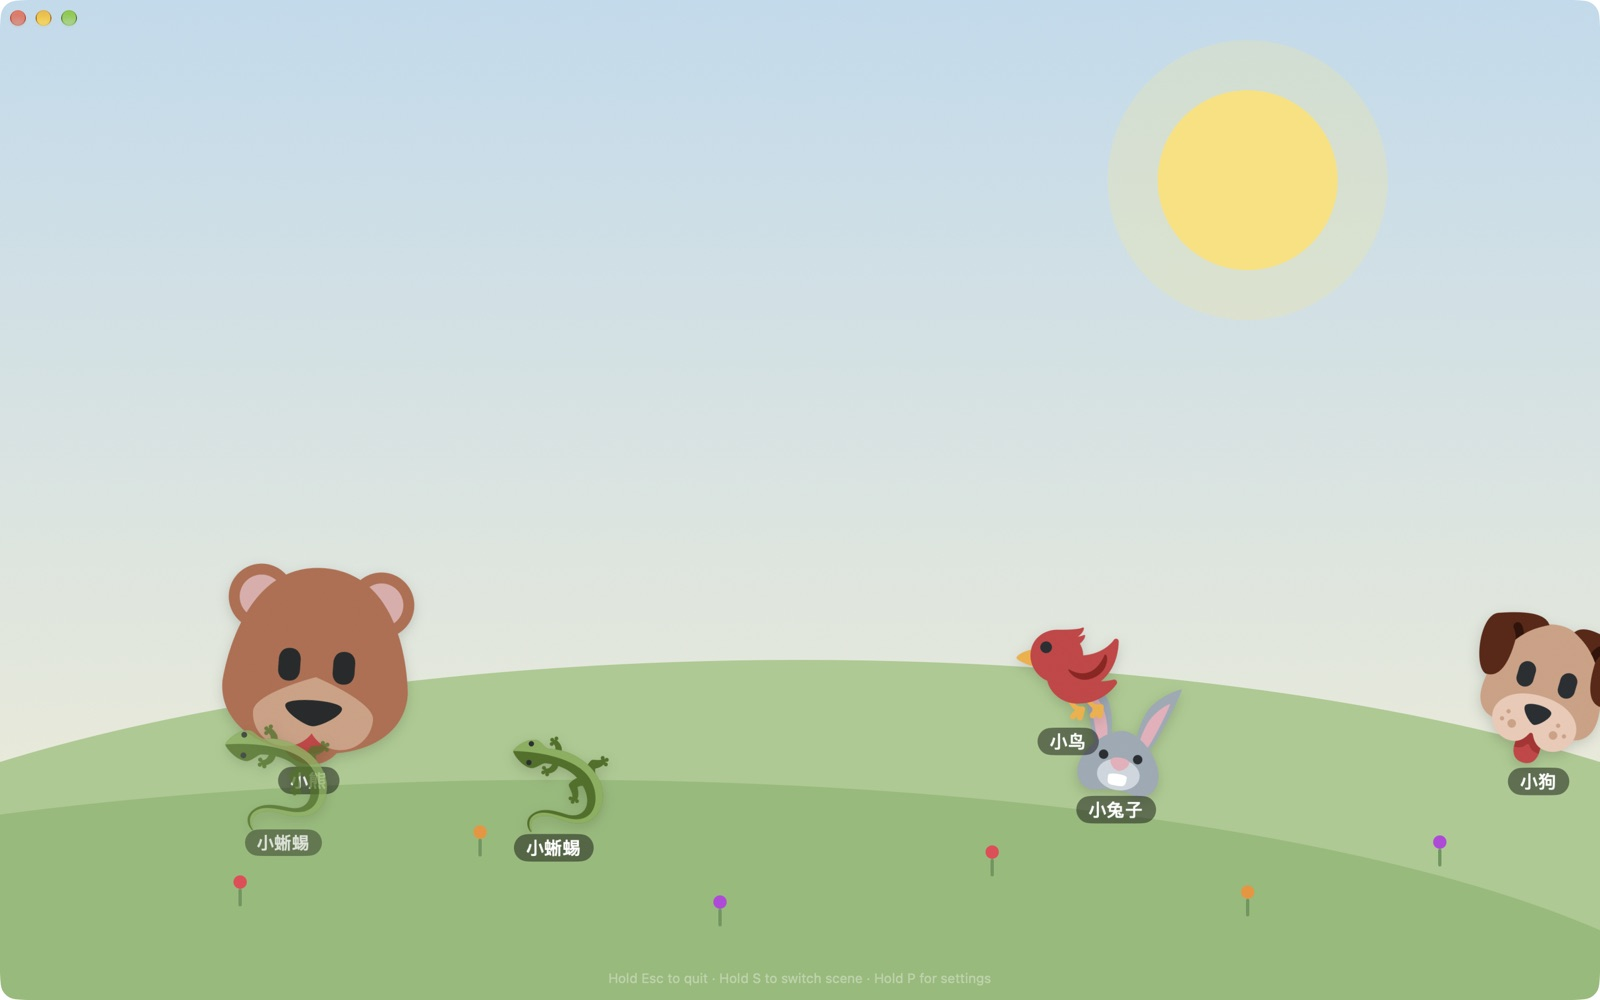
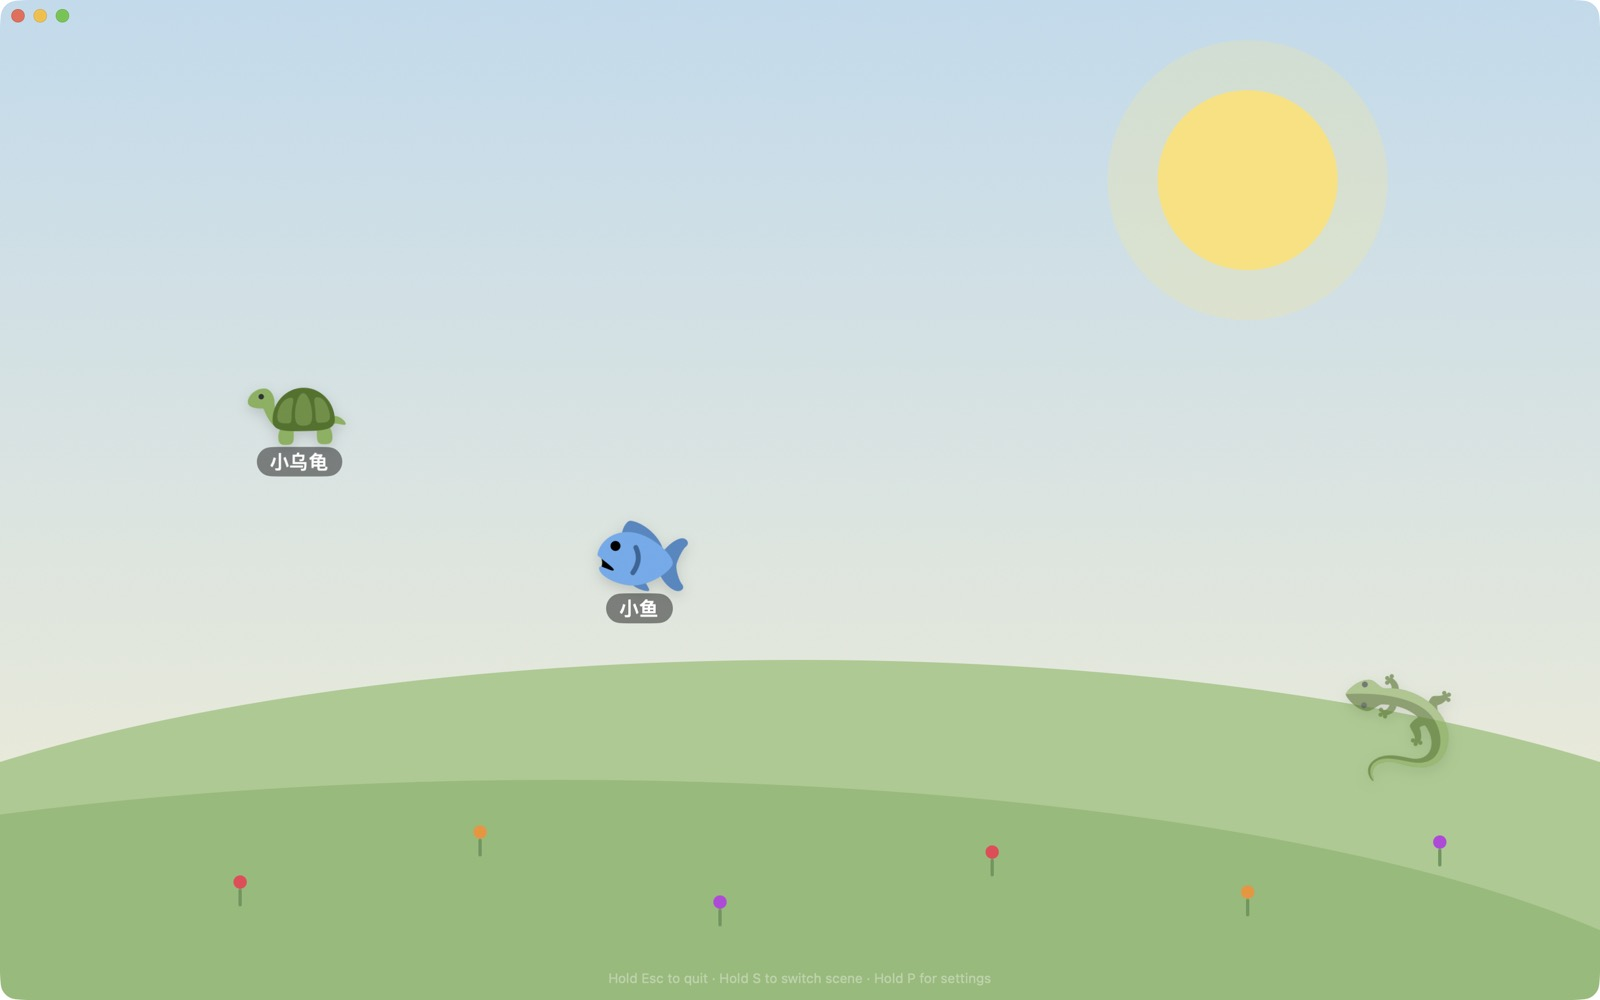
fix: 站点双语截图统一为朝雾草原场景
Site screenshots: both languages now show the Misty Meadow scene,
matching the captions (previously the zh/en shots disagreed with each
other and both showed the Mushroom Forest).

Root cause of the zh/en mismatch: capture-screens.sh stage 02 cycles
the scene by holding S, but that key *toggles* between the two scenes,
and SettingsStore restores the persisted scene at launch (tappy.scene
in the bare-executable 'Tappy' defaults domain) — so leftover state
from any earlier run silently swapped which scene each stage captured.
Sep 29's zh 02-second-scene was actually the Mushroom Forest.

Pin the start state for capture runs via NSArgumentDomain
(-tappy.activePack default -tappy.scene mushroomForest): per-process,
outranks the persisted domain, and never touches user prefs. Verified
by poisoning the persisted scene to mistyMeadow and re-running:
stage 01 = Mushroom Forest, stage 02 = Misty Meadow, confirmed by
local pixel sampling of the captures.

diff --git a/site/index.html b/site/index.html
@@ -348,12 +348,12 @@ footer a { color: #5C2E28; }
       </li>
     </ol>
     <figure class="screenshot" data-lang="zh">
-      <img src="assets/playfield-zh.jpg" alt="游戏实际画面：蘑菇丛林场景里蹦出的小动物们" width="1600" height="1000" loading="lazy">
-      <figcaption>实际画面 · 蘑菇丛林场景</figcaption>
+      <img src="assets/playfield-zh.jpg" alt="游戏实际画面：朝雾草原场景里蹦出的小动物们" width="1600" height="1000" loading="lazy">
+      <figcaption>实际画面 · 朝雾草原场景</figcaption>
     </figure>
     <figure class="screenshot" data-lang="en" hidden>
-      <img src="assets/playfield-en.jpg" alt="In-app view: animals popped up in the Mushroom Forest scene" width="1600" height="1000" loading="lazy">
-      <figcaption>In-app view · Mushroom Forest scene</figcaption>
+      <img src="assets/playfield-en.jpg" alt="In-app view: animals popped up in the Misty Meadow scene" width="1600" height="1000" loading="lazy">
+      <figcaption>In-app view · Misty Meadow scene</figcaption>
     </figure>
   </section>
 
